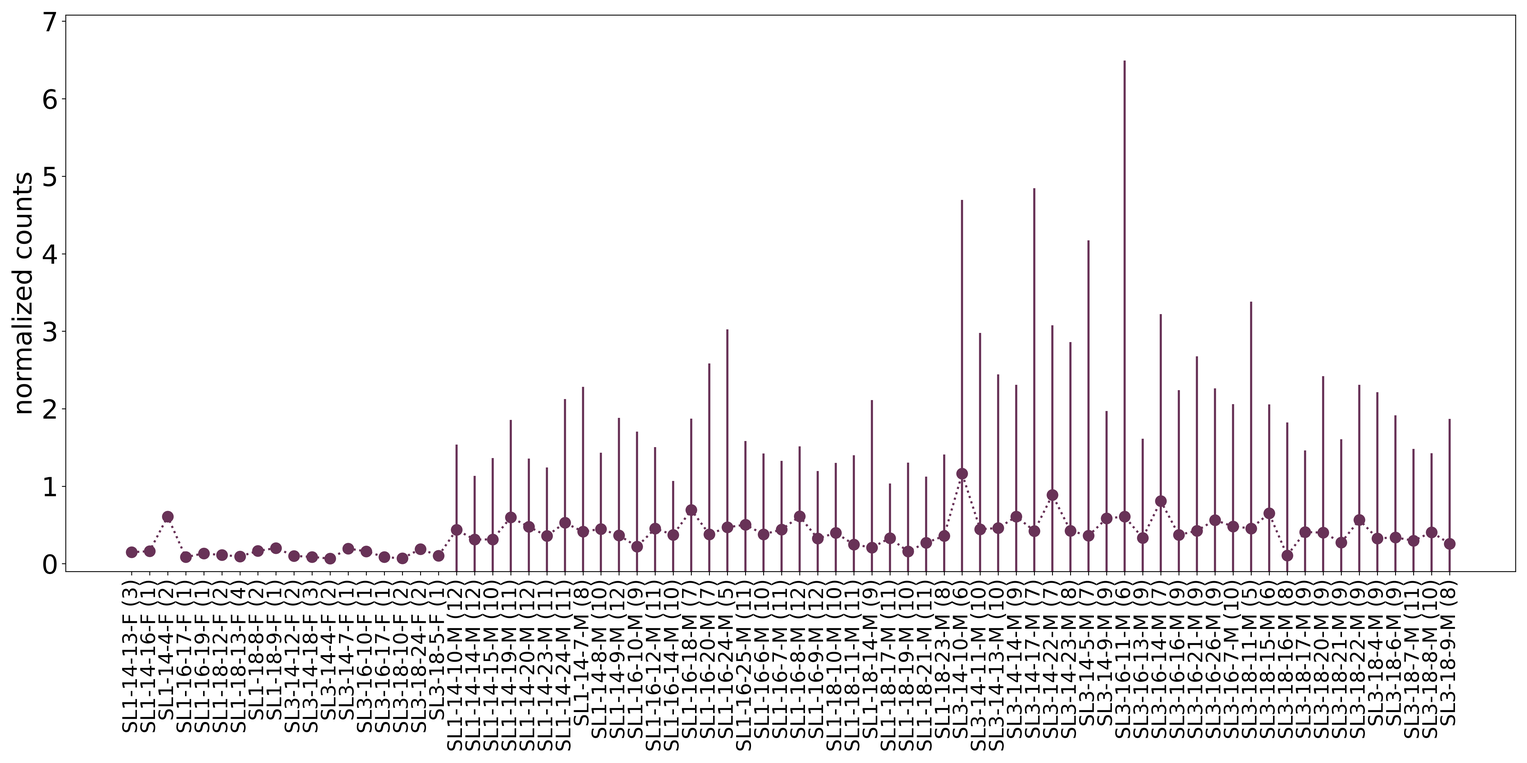
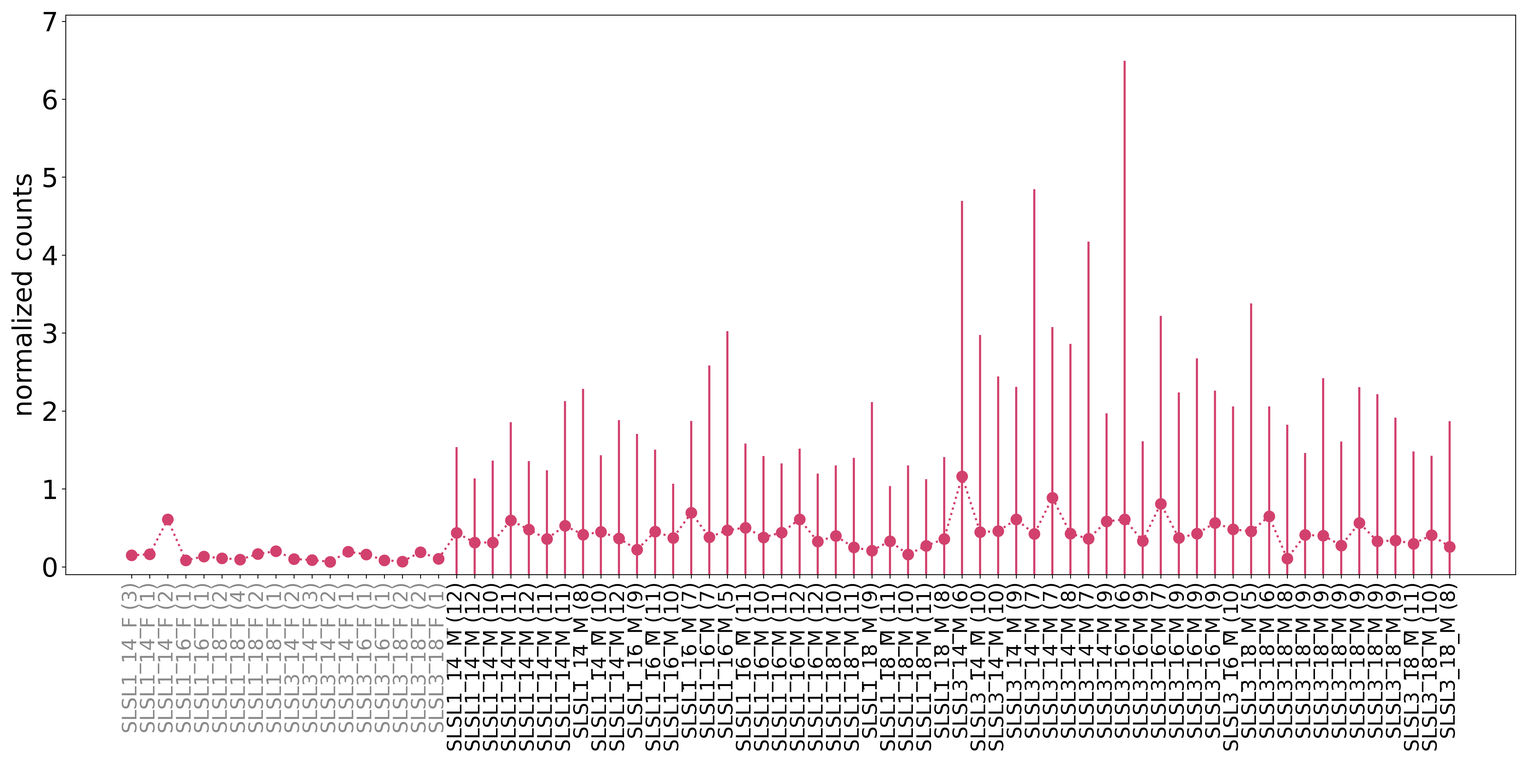
more plotting

Changed region(s): [[0.0312, 0.434, 0.9662, 0.992], [0.0, 0.403, 0.0312, 0.558], [0.0, 0.248, 0.0312, 0.372]]

diff --git a/src/Y_expression_quantification.py b/src/Y_expression_quantification.py
@@ -4,6 +4,164 @@ Plot gene expression and compare Y and A
 
 from basic_plotting import plot_counts
 
+import matplotlib.pyplot as plt
+import pandas as pd
+import numpy as np
+from scipy import stats
+
+
+def plot_counts_sum_sets(counts_table:str, geneIDs_lists_dict:dict, outfile_name:str, y_label="normalized counts", errorbars = False, samples_group_dict = {}):
+    """
+    plot the counts of the geneIDs in all samples
+    except samples where all samples have zero counts
+    gene_IDs_lists_dict is a dict of {'label' : [geneID_list]}, 
+    and the mean counts with error bars of each list are plotted
+    """
+    assert len(geneIDs_lists_dict)>0
+    counts_df = pd.read_csv(counts_table, sep="\t", index_col=0)
+    # counts_present = counts_df.filter(items = geneIDs_list, axis = 1)
+    headers = counts_df.columns.tolist()
+    gene_counts_all_lists = {geneID_label :{geneID : {} for geneID in geneIDs_list} for geneID_label, geneIDs_list in geneIDs_lists_dict.items()}
+    nonexpressed = []
+    for geneID_label, geneIDs_list in geneIDs_lists_dict.items():
+        for geneID in geneIDs_list:
+            try:
+                counts_dict = counts_df.loc[geneID].to_dict()
+            except:
+                nonexpressed.append(geneID)
+                continue
+            gene_counts_all_lists[geneID_label][geneID] = counts_dict
+    print(f"{len(nonexpressed)} out of {len(geneIDs_list)} genes not expressed")
+
+    nonzero_samples = []
+    for sample in headers:
+        sample_count = 0
+        for geneID_label, geneIDs_list in geneIDs_lists_dict.items():
+            for geneID in geneIDs_list:
+                if gene_counts_all_lists[geneID_label][geneID] == {}:
+                    continue
+                try:
+                    sample_count += gene_counts_all_lists[geneID_label][geneID][sample]
+                except: 
+                    # sample keys should exist always even if the count is 0
+                    raise RuntimeError(f"{sample} not found in {geneID_label}:{geneID} \n '{gene_counts_all_lists[geneID_label][geneID]}'")
+        
+        if sample_count > 0:
+            nonzero_samples.append(sample)
+
+    nonzero_samples = list(set(nonzero_samples))
+    print(f"out of {len(headers)} there are {len(nonzero_samples)} samples that have at least one count in one gene!")# \n{nonzero_samples}")
+
+    ### plotting
+    fig, ax = plt.subplots(1,1, figsize=(20, 10)) # for more than three rows
+
+    fs = 25
+    ps = fs*0.8# * 1/len(geneIDs_lists_dict) # point size
+    lw=2
+    linest = ":"
+
+    # sort nonzero samples so that F/M and lines are separated and the plot is easier to interpret 
+    females = sorted([sample for sample in nonzero_samples if "-F_" in sample])
+    males = sorted([sample for sample in nonzero_samples if "-M_" in sample])
+    nonzero_samples_sorted = females + males
+    assert len(nonzero_samples) == len(nonzero_samples_sorted)
+
+    colors_list = [
+"#d2416e",
+"#57b158",
+"#c35dbd",
+"#a6b541",
+"#7965ca",
+"#cd9445",
+"#678ccc",
+"#c85c3f",
+"#4caf9a",
+"#bd6b8f",
+"#717935"]
+    c = 0
+    for list_label, gene_counts in gene_counts_all_lists.items():
+
+        ## make medians and standard errors
+        medians_dict = [0.0 for sample in nonzero_samples_sorted]
+        errors_dict = [0.0 for sample in nonzero_samples_sorted]
+        tick_labels = ["" for sample in nonzero_samples_sorted]
+        tick_pos = [i for i, sample in enumerate(nonzero_samples_sorted)]
+        
+        for i, sample in enumerate(nonzero_samples_sorted):
+            curr_counts = []
+            count_expressed = 0
+            for geneID,sample_counts in gene_counts.items():
+                if sample_counts == {}:
+                    # print(f"{geneID} in {list_label} has empty samples dictionary")
+                    continue
+                if sample_counts[sample] >0:
+                    curr_counts.append(sample_counts[sample])
+                    count_expressed+=1
+            
+            if len(curr_counts)>0:
+                medians_dict[i] = np.median(curr_counts)
+                errors_dict[i] = stats.sem(curr_counts)
+            else:
+                medians_dict[i] = np.nan
+                errors_dict[i] = np.nan
+            if samples_group_dict != {}:
+                try:
+                    sample_ = samples_group_dict[sample]
+                except:
+                    print(f"sample name transformation failed! {sample} could not be found in samples_group_dict {samples_group_dict.keys()}")
+                    sample_ = f"{sample}"
+            if len(geneIDs_lists_dict) ==1:
+                tick_labels[i] = f"{sample_} ({count_expressed})"
+            else:
+                tick_labels[i] = f"{sample_}"
+
+        if errorbars:
+            ax.errorbar(tick_pos, medians_dict, xerr = 0, yerr = errors_dict, color=colors_list[c], linewidth =lw,
+                        marker = ".", markersize=ps, linestyle = linest, label=list_label)
+        else:
+            ax.plot(tick_pos, medians_dict,color=colors_list[c], linewidth =lw, 
+                    marker = ".", markersize=ps, linestyle = linest, label=list_label)
+        c +=1
+
+    if "log" not in y_label:
+        ymin, ymax = ax.get_ylim()
+        ax.set_ylim([-0.1,ymax])
+
+    tick_cols = ["#000000" if "M" in sample else "#8A8A8A" for sample in nonzero_samples_sorted ]
+    ax.set_xticks(tick_pos)
+    ax.set_xticklabels(tick_labels)
+    for tick_label, color in zip(ax.get_xticklabels(), tick_cols):
+        tick_label.set_color(color)
+    
+    ax.tick_params(axis='x', labelsize=fs*0.75,labelrotation=90)#, colors)
+    ax.tick_params(axis='y', labelsize=fs)
+    ax.set_ylabel(f"{y_label}", fontsize = fs)
+    plt.tight_layout()
+    if len(geneIDs_lists_dict)>1:
+        plt.legend(fontsize = fs)
+    plt.savefig(outfile_name, dpi = 300, transparent = False)
+    print(f"plot saved in current working directory as: {outfile_name}")
+
+
+def samples_group():
+    
+    samples = {
+        "SL1_14_M" : ["WJ-3841-1-14-10-M_S377","WJ-3841-1-14-14-M_S399","WJ-3841-1-14-15-M_S400","WJ-3841-1-14-19-M_S425","WJ-3841-1-14-20-M_S426","WJ-3841-1-14-23-M_S427","WJ-3841-1-14-24-M_S428","WJ-3841-1-14-7-M_S374_","WJ-3841-1-14-8-M_S375_","WJ-3841-1-14-9-M_S376_"],
+        "SL1_16_M" : ["WJ-3841-1-16-10-M_S401","WJ-3841-1-16-12-M_S402","WJ-3841-1-16-14-M_S403","WJ-3841-1-16-18-M_S404","WJ-3841-1-16-20-M_S431","WJ-3841-1-16-24-M_S433","WJ-3841-1-16-25-M_S434","WJ-3841-1-16-6-M_S379_","WJ-3841-1-16-7-M_S380_","WJ-3841-1-16-8-M_S381_","WJ-3841-1-16-9-M_S382_"],
+        "SL1_18_M" : ["WJ-3841-1-18-10-M_S383","WJ-3841-1-18-11-M_S406","WJ-3841-1-18-14-M_S407","WJ-3841-1-18-17-M_S408","WJ-3841-1-18-19-M_S437","WJ-3841-1-18-21-M_S438","WJ-3841-1-18-23-M_S439"],
+        "SL3_14_M" : ["WJ-3841-3-14-10-M_S361","WJ-3841-3-14-11-M_S385","WJ-3841-3-14-13-M_S386","WJ-3841-3-14-14-M_S387","WJ-3841-3-14-17-M_S411","WJ-3841-3-14-22-M_S412","WJ-3841-3-14-23-M_S413","WJ-3841-3-14-5-M_S359_","WJ-3841-3-14-9-M_S360_"],
+        "SL3_16_M" : ["WJ-3841-3-16-11-M_S365","WJ-3841-3-16-13-M_S390","WJ-3841-3-16-14-M_S391","WJ-3841-3-16-16-M_S392","WJ-3841-3-16-21-M_S416","WJ-3841-3-16-26-M_S417","WJ-3841-3-16-7-M_S364_"],
+        "SL3_18_M" : ["WJ-3841-3-18-11-M_S395","WJ-3841-3-18-15-M_S396","WJ-3841-3-18-16-M_S397","WJ-3841-3-18-17-M_S398","WJ-3841-3-18-20-M_S421","WJ-3841-3-18-21-M_S422","WJ-3841-3-18-22-M_S423","WJ-3841-3-18-4-M_S367_","WJ-3841-3-18-6-M_S368_","WJ-3841-3-18-7-M_S369_","WJ-3841-3-18-8-M_S370_","WJ-3841-3-18-9-M_S371_"],
+        "SL1_14_F" : ["WJ-3841-1-14-13-F_S429","WJ-3841-1-14-16-F_S430","WJ-3841-1-14-4-F_S378_"],
+        "SL1_16_F" : ["WJ-3841-1-16-17-F_S405","WJ-3841-1-16-19-F_S435","WJ-3841-1-16-22-F_S436"],
+        "SL1_18_F" : ["WJ-3841-1-18-12-F_S440","WJ-3841-1-18-13-F_S420","WJ-3841-1-18-5-F_S384_","WJ-3841-1-18-8-F_S409_","WJ-3841-1-18-9-F_S410_"],
+        "SL3_14_F" : ["WJ-3841-3-14-12-F_S389","WJ-3841-3-14-16-F_S414","WJ-3841-3-14-18-F_S415","WJ-3841-3-14-4-F_S362_","WJ-3841-3-14-6-F_S363_","WJ-3841-3-14-7-F_S388_"],
+        "SL3_16_F" : ["WJ-3841-3-16-10-F_S393","WJ-3841-3-16-12-F_S394","WJ-3841-3-16-15-F_S418","WJ-3841-3-16-17-F_S419","WJ-3841-3-16-18-F_S432","WJ-3841-3-16-9-F_S366_"],
+        "SL3_18_F" : ["WJ-3841-3-18-10-F_S373","WJ-3841-3-18-24-F_S424","WJ-3841-3-18-5-F_S372_"],
+    }
+    return samples
+
+
 def get_counts_paths(username = "milena"):
     counts_paths = {
         "no_log" : f"/Users/{username}/work/PhD_code/PhD_chapter4/data/gene_counts_normalized_nolog.tsv",
@@ -26,7 +184,16 @@ def get_y_information(username = "milena"):
         'scaffold_164' : [],
         "all" : ["gene-402962","gene-402968","gene-402989","gene-424042","gene-424048","gene-424063","gene-424069","gene-424075","gene-424085","gene-424095","gene-371557","gene-371566","gene-371572","gene-371578","gene-371593","gene-371599","gene-371605","gene-371611","gene-371617","gene-371627","gene-371633","gene-371651","gene-371660","gene-371666","gene-371676","gene-371686","gene-371698","gene-371704","gene-371719","gene-371725","gene-371738","gene-371744","gene-371750","gene-371763","gene-371769","gene-371775","gene-371781","gene-371787","gene-371793","gene-371799","gene-371805","yTor-A","yTor-B","gene-371844","yTor-C","gene-371883","gene-371889","gene-371898","gene-371907","gene-371913","gene-371922","gene-371936","gene-371957","gene-371984","gene-372026","gene-372053","gene-372068","gene-372207","gene-372216","gene-372237","gene-372243","gene-372264","gene-372302"],
         }
-    return sex_chromosomes_superscaffolded,y_contigs
+    x_contigs = {
+        'scaffold_10' : ["gene-306335","gene-306353","gene-306359","gene-306484","gene-306496","gene-306523","gene-306550","gene-306577","gene-306589","gene-306648","gene-306675","gene-306713","gene-306736","gene-306977","gene-306995","gene-307001","gene-307013","gene-307098","gene-307178","gene-307190","gene-307264","gene-307421","gene-307427","gene-307433","gene-307442","gene-307448","gene-307460","gene-307469","gene-307478","gene-307484","gene-307496","gene-307508","gene-307537","gene-307555","gene-307679","gene-307691","gene-307700","gene-307736","gene-307746","gene-308117","gene-308126","gene-308132","gene-308150","gene-308177","gene-308198","gene-308216","gene-308231","gene-308282","gene-308300","gene-308321","gene-308424","gene-308454","gene-308487","gene-308508","gene-308549","gene-308564","gene-308597","gene-308603","gene-308697","gene-308708","gene-308738","gene-308795","gene-308810","gene-308822","gene-308840","gene-308850","gene-308862","gene-308874","gene-308880","gene-308887","gene-308897","gene-308921","gene-308930","gene-308945","gene-308981","gene-308990","gene-309049","gene-309070","gene-309076","gene-309252","gene-309273","gene-309288","gene-309315","gene-309327","gene-309339","gene-309387","gene-309399","gene-309408","gene-309414","gene-309420","gene-309471","gene-309516","gene-309522","gene-309556","gene-309583","gene-309642","gene-309648","gene-309660","gene-309708","gene-309714","gene-309744","gene-309768","gene-309828","gene-309843","gene-309870","gene-309876","gene-309885","gene-309915","gene-309966","gene-309993","gene-309999","gene-310012","gene-310065","gene-310115","gene-310121","gene-310152","gene-310158","gene-310176","gene-310194","gene-310230","gene-310251","gene-310287","gene-310338","gene-310383","gene-310422","gene-310482","gene-310604","gene-310639","gene-310648","gene-310660","gene-310714","gene-310729","gene-310850","gene-310868","gene-310889","gene-310951","gene-310975","gene-311116","gene-311131","gene-311152","gene-311193","gene-311211","gene-311273","gene-311303","gene-311343","gene-311367","gene-311396","gene-311426","gene-311444","gene-311450","gene-311462","gene-311477","gene-311521","gene-311551","gene-311563","gene-311581","gene-311593","gene-311620","gene-311647","gene-311674","gene-311725","gene-311734","gene-311749","gene-311758","gene-311767","gene-311796","gene-311808","gene-311817","gene-311904","gene-311910","gene-311934","gene-311952","gene-311970","gene-312110","gene-312140","gene-312229","gene-312264","gene-312270","gene-312288","gene-312294","gene-312314","gene-312326","gene-312362","gene-312409","gene-312416","gene-312440","gene-312452","gene-312479","gene-312544","gene-312583","gene-312604","gene-312715","gene-312748","gene-312890","gene-312908","gene-312923","gene-312938","gene-312968","gene-312983","gene-313040","gene-313064","gene-313139","gene-313154","gene-313196","gene-313303","gene-313324","gene-313330","gene-313455","gene-313478","gene-313493","gene-313589","gene-313618","gene-314377","gene-314386","gene-314478","gene-314490","gene-314511","gene-314576","gene-314588","gene-314599","gene-314611","gene-314715","gene-314807","gene-314825","gene-314834","gene-314864","gene-314873","gene-314900","gene-314921","gene-314945","gene-314951","gene-314980","gene-315004","gene-315034","gene-315114","gene-315138","gene-315170","gene-315215","gene-315254","gene-315287","gene-315379","gene-315455","gene-315467","gene-315482","gene-315515","gene-315539","gene-315551","gene-315569","gene-315578","gene-315593","gene-315603","gene-315630","gene-315640","gene-315808","gene-315814","gene-315826","gene-315967","gene-315991","gene-316014","gene-316126","gene-316255","gene-316282","gene-316300","gene-316413","gene-316434","gene-316459","gene-316474","gene-316544","gene-316589","gene-316686","gene-316713","gene-316731","gene-316755","gene-316779","gene-316827","gene-316836","gene-316880","gene-316886","gene-316951","gene-317002","gene-317103","gene-317127","gene-317184","gene-317205","gene-317217","gene-317235","gene-317256","gene-317283","gene-317289","gene-317336","gene-317372","gene-317405","gene-317564","gene-317573","gene-317951","gene-317969","gene-318475","gene-320235","gene-320352","gene-320375","gene-320404","gene-320470","gene-320479","gene-320494","gene-320541","gene-320568","gene-320594","gene-320647","gene-320770","gene-320782","gene-320803","gene-320812","gene-320821","gene-320833","gene-320854","gene-320878","gene-320978","gene-320990","gene-321011","gene-321017","gene-321078","gene-321107","gene-321177","gene-321219","gene-321346","gene-321367","gene-321450","gene-321510","gene-321546","gene-321587","gene-321629","gene-321638","gene-321653","gene-321691","gene-321706","gene-321733","gene-321745","gene-321775","gene-321790","gene-321814","gene-321841","gene-321850","gene-321859","gene-321868","gene-321913","gene-321925","gene-321991","gene-322044","gene-322092","gene-322136","gene-322154","gene-322160"],
+        'scaffold_14' : ["gene-342132","gene-342138","gene-342144","gene-342150","gene-342165","gene-342177","gene-342183","gene-342189","gene-342198","gene-342204","gene-342210","gene-342216","gene-342222","gene-342228","gene-342240","gene-342246","gene-342252","gene-342261","gene-342270","gene-342279","gene-342285","gene-342291","gene-342297","gene-342303","gene-342309","gene-342315","gene-342321","gene-342330","gene-342339","gene-342348","gene-342354","gene-342360","gene-342366","gene-342372","gene-342378","gene-342384","gene-342390","gene-342399","gene-342408","gene-342417","gene-342423","gene-342429","gene-342438","gene-342447","gene-342456","gene-342465","gene-342471","gene-342477","gene-342483","gene-342489","gene-342495","gene-342501","gene-342510","gene-342519","gene-342525","gene-342531","gene-342540","gene-342546","gene-342552","gene-342561","gene-342567","gene-342573","gene-342579","gene-342594","gene-342639","gene-342660","gene-342667","gene-342682","gene-342688","gene-342694","gene-342718","gene-342950","gene-342962","gene-342971","gene-342977","gene-342983","gene-343084","gene-343093","gene-343099","gene-343117","gene-343123","gene-343165","gene-343194","gene-343203","gene-343215","gene-343242","gene-343369","gene-343376","gene-343453","gene-343500","gene-343547","gene-343580","gene-343648","gene-343660","gene-343684","gene-343696","gene-343708","gene-343717","gene-343726","gene-343747","gene-343838","gene-343924","gene-343933","gene-343951","gene-343971","gene-343989","gene-344019","gene-344052","gene-344096","gene-344111","gene-344117","gene-344147","gene-344156","gene-344189","gene-344201","gene-344210","gene-344537","gene-344549","gene-344555","gene-344564","gene-344945","gene-344978","gene-345019","gene-345031","gene-345061","gene-345067","gene-345073","gene-345094","gene-345100","gene-345115","gene-345129","gene-345135","gene-345162","gene-345180","gene-345195","gene-345222","gene-345246","gene-345258","gene-345273","gene-345288","gene-345306","gene-345372","gene-345392","gene-345419","gene-345515","gene-345524","gene-345545","gene-345557"],
+        'scaffold_23' : ["gene-367203","gene-367224","gene-367230","gene-367236","gene-367251","gene-367267","gene-367277","gene-367351","gene-367360","gene-367366","gene-367381","gene-367393","gene-367399","gene-367408","gene-367414","gene-367420","gene-367427","gene-367433","gene-367439","gene-367448","gene-367454","gene-367460","gene-367469","gene-367478","gene-367484","gene-367490","gene-367502","gene-367517"],
+        'scaffold_31' : ["gene-381161","gene-381182","gene-381188","gene-381194","gene-381200","gene-381209","gene-381218","gene-381237","gene-381246","gene-381259","gene-381280","gene-381292","gene-381304","gene-381310","gene-381322","gene-381331","gene-381337","gene-381349","gene-381355","gene-381361","gene-381370","gene-381376","gene-381394","gene-381436","gene-381442","gene-381451","gene-381491","gene-381512","gene-381547","gene-381574","gene-381597","gene-381624","gene-381651","gene-381698","gene-381757","gene-381766","gene-381772","gene-381799","gene-381805","gene-381988","gene-381997","gene-382021","gene-382055","gene-382088","gene-382095","gene-382158","gene-382176","gene-382294","gene-382300","gene-382309","gene-382321","gene-382327","gene-382333","gene-382345","gene-382351","gene-382357","gene-382363","gene-382369","gene-382375","gene-382384","gene-382396","gene-382402","gene-382408","gene-382414","gene-382432","gene-382438","gene-382444","gene-382455","gene-382464","gene-382473","gene-382479","gene-382485","gene-382491","gene-382500","gene-382506","gene-382512","gene-382518","gene-382524","gene-382530","gene-382536","gene-382547","gene-382559","gene-382571","gene-382577","gene-382583","gene-382589","gene-382601","gene-382607","gene-382613","gene-382619","gene-382625"],
+        'scaffold_34' : ["gene-386046","gene-386052","gene-386058","gene-386118","gene-386151","gene-386178","gene-386234","gene-386270","gene-386276","gene-386303","gene-386309","gene-386321","gene-386336","gene-386375","gene-386470","gene-386717","gene-386821","gene-386830","gene-386836","gene-386842","gene-386848","gene-386933","gene-386954","gene-386960","gene-386969","gene-386975","gene-386981","gene-386987","gene-386993","gene-387002","gene-387081","gene-387251","gene-387272","gene-387443","gene-387497","gene-387749","gene-387992","gene-388013","gene-388076","gene-388126","gene-388138","gene-388159","gene-388171","gene-388183","gene-388204","gene-388216","gene-388234","gene-388249","gene-388261","gene-388296","gene-388322","gene-388340","gene-388416","gene-388422","gene-388434","gene-388479","gene-388488","gene-388556","gene-388577","gene-388598"],
+        'scaffold_83' : ["gene-419623","gene-419632"],
+        'all' : ["gene-306335","gene-306353","gene-306359","gene-306484","gene-306496","gene-306523","gene-306550","gene-306577","gene-306589","gene-306648","gene-306675","gene-306713","gene-306736","gene-306977","gene-306995","gene-307001","gene-307013","gene-307098","gene-307178","gene-307190","gene-307264","gene-307421","gene-307427","gene-307433","gene-307442","gene-307448","gene-307460","gene-307469","gene-307478","gene-307484","gene-307496","gene-307508","gene-307537","gene-307555","gene-307679","gene-307691","gene-307700","gene-307736","gene-307746","gene-308117","gene-308126","gene-308132","gene-308150","gene-308177","gene-308198","gene-308216","gene-308231","gene-308282","gene-308300","gene-308321","gene-308424","gene-308454","gene-308487","gene-308508","gene-308549","gene-308564","gene-308597","gene-308603","gene-308697","gene-308708","gene-308738","gene-308795","gene-308810","gene-308822","gene-308840","gene-308850","gene-308862","gene-308874","gene-308880","gene-308887","gene-308897","gene-308921","gene-308930","gene-308945","gene-308981","gene-308990","gene-309049","gene-309070","gene-309076","gene-309252","gene-309273","gene-309288","gene-309315","gene-309327","gene-309339","gene-309387","gene-309399","gene-309408","gene-309414","gene-309420","gene-309471","gene-309516","gene-309522","gene-309556","gene-309583","gene-309642","gene-309648","gene-309660","gene-309708","gene-309714","gene-309744","gene-309768","gene-309828","gene-309843","gene-309870","gene-309876","gene-309885","gene-309915","gene-309966","gene-309993","gene-309999","gene-310012","gene-310065","gene-310115","gene-310121","gene-310152","gene-310158","gene-310176","gene-310194","gene-310230","gene-310251","gene-310287","gene-310338","gene-310383","gene-310422","gene-310482","gene-310604","gene-310639","gene-310648","gene-310660","gene-310714","gene-310729","gene-310850","gene-310868","gene-310889","gene-310951","gene-310975","gene-311116","gene-311131","gene-311152","gene-311193","gene-311211","gene-311273","gene-311303","gene-311343","gene-311367","gene-311396","gene-311426","gene-311444","gene-311450","gene-311462","gene-311477","gene-311521","gene-311551","gene-311563","gene-311581","gene-311593","gene-311620","gene-311647","gene-311674","gene-311725","gene-311734","gene-311749","gene-311758","gene-311767","gene-311796","gene-311808","gene-311817","gene-311904","gene-311910","gene-311934","gene-311952","gene-311970","gene-312110","gene-312140","gene-312229","gene-312264","gene-312270","gene-312288","gene-312294","gene-312314","gene-312326","gene-312362","gene-312409","gene-312416","gene-312440","gene-312452","gene-312479","gene-312544","gene-312583","gene-312604","gene-312715","gene-312748","gene-312890","gene-312908","gene-312923","gene-312938","gene-312968","gene-312983","gene-313040","gene-313064","gene-313139","gene-313154","gene-313196","gene-313303","gene-313324","gene-313330","gene-313455","gene-313478","gene-313493","gene-313589","gene-313618","gene-314377","gene-314386","gene-314478","gene-314490","gene-314511","gene-314576","gene-314588","gene-314599","gene-314611","gene-314715","gene-314807","gene-314825","gene-314834","gene-314864","gene-314873","gene-314900","gene-314921","gene-314945","gene-314951","gene-314980","gene-315004","gene-315034","gene-315114","gene-315138","gene-315170","gene-315215","gene-315254","gene-315287","gene-315379","gene-315455","gene-315467","gene-315482","gene-315515","gene-315539","gene-315551","gene-315569","gene-315578","gene-315593","gene-315603","gene-315630","gene-315640","gene-315808","gene-315814","gene-315826","gene-315967","gene-315991","gene-316014","gene-316126","gene-316255","gene-316282","gene-316300","gene-316413","gene-316434","gene-316459","gene-316474","gene-316544","gene-316589","gene-316686","gene-316713","gene-316731","gene-316755","gene-316779","gene-316827","gene-316836","gene-316880","gene-316886","gene-316951","gene-317002","gene-317103","gene-317127","gene-317184","gene-317205","gene-317217","gene-317235","gene-317256","gene-317283","gene-317289","gene-317336","gene-317372","gene-317405","gene-317564","gene-317573","gene-317951","gene-317969","gene-318475","gene-320235","gene-320352","gene-320375","gene-320404","gene-320470","gene-320479","gene-320494","gene-320541","gene-320568","gene-320594","gene-320647","gene-320770","gene-320782","gene-320803","gene-320812","gene-320821","gene-320833","gene-320854","gene-320878","gene-320978","gene-320990","gene-321011","gene-321017","gene-321078","gene-321107","gene-321177","gene-321219","gene-321346","gene-321367","gene-321450","gene-321510","gene-321546","gene-321587","gene-321629","gene-321638","gene-321653","gene-321691","gene-321706","gene-321733","gene-321745","gene-321775","gene-321790","gene-321814","gene-321841","gene-321850","gene-321859","gene-321868","gene-321913","gene-321925","gene-321991","gene-322044","gene-322092","gene-322136","gene-322154","gene-322160","gene-342132","gene-342138","gene-342144","gene-342150","gene-342165","gene-342177","gene-342183","gene-342189","gene-342198","gene-342204","gene-342210","gene-342216","gene-342222","gene-342228","gene-342240","gene-342246","gene-342252","gene-342261","gene-342270","gene-342279","gene-342285","gene-342291","gene-342297","gene-342303","gene-342309","gene-342315","gene-342321","gene-342330","gene-342339","gene-342348","gene-342354","gene-342360","gene-342366","gene-342372","gene-342378","gene-342384","gene-342390","gene-342399","gene-342408","gene-342417","gene-342423","gene-342429","gene-342438","gene-342447","gene-342456","gene-342465","gene-342471","gene-342477","gene-342483","gene-342489","gene-342495","gene-342501","gene-342510","gene-342519","gene-342525","gene-342531","gene-342540","gene-342546","gene-342552","gene-342561","gene-342567","gene-342573","gene-342579","gene-342594","gene-342639","gene-342660","gene-342667","gene-342682","gene-342688","gene-342694","gene-342718","gene-342950","gene-342962","gene-342971","gene-342977","gene-342983","gene-343084","gene-343093","gene-343099","gene-343117","gene-343123","gene-343165","gene-343194","gene-343203","gene-343215","gene-343242","gene-343369","gene-343376","gene-343453","gene-343500","gene-343547","gene-343580","gene-343648","gene-343660","gene-343684","gene-343696","gene-343708","gene-343717","gene-343726","gene-343747","gene-343838","gene-343924","gene-343933","gene-343951","gene-343971","gene-343989","gene-344019","gene-344052","gene-344096","gene-344111","gene-344117","gene-344147","gene-344156","gene-344189","gene-344201","gene-344210","gene-344537","gene-344549","gene-344555","gene-344564","gene-344945","gene-344978","gene-345019","gene-345031","gene-345061","gene-345067","gene-345073","gene-345094","gene-345100","gene-345115","gene-345129","gene-345135","gene-345162","gene-345180","gene-345195","gene-345222","gene-345246","gene-345258","gene-345273","gene-345288","gene-345306","gene-345372","gene-345392","gene-345419","gene-345515","gene-345524","gene-345545","gene-345557","gene-367203","gene-367224","gene-367230","gene-367236","gene-367251","gene-367267","gene-367277","gene-367351","gene-367360","gene-367366","gene-367381","gene-367393","gene-367399","gene-367408","gene-367414","gene-367420","gene-367427","gene-367433","gene-367439","gene-367448","gene-367454","gene-367460","gene-367469","gene-367478","gene-367484","gene-367490","gene-367502","gene-367517","gene-381161","gene-381182","gene-381188","gene-381194","gene-381200","gene-381209","gene-381218","gene-381237","gene-381246","gene-381259","gene-381280","gene-381292","gene-381304","gene-381310","gene-381322","gene-381331","gene-381337","gene-381349","gene-381355","gene-381361","gene-381370","gene-381376","gene-381394","gene-381436","gene-381442","gene-381451","gene-381491","gene-381512","gene-381547","gene-381574","gene-381597","gene-381624","gene-381651","gene-381698","gene-381757","gene-381766","gene-381772","gene-381799","gene-381805","gene-381988","gene-381997","gene-382021","gene-382055","gene-382088","gene-382095","gene-382158","gene-382176","gene-382294","gene-382300","gene-382309","gene-382321","gene-382327","gene-382333","gene-382345","gene-382351","gene-382357","gene-382363","gene-382369","gene-382375","gene-382384","gene-382396","gene-382402","gene-382408","gene-382414","gene-382432","gene-382438","gene-382444","gene-382455","gene-382464","gene-382473","gene-382479","gene-382485","gene-382491","gene-382500","gene-382506","gene-382512","gene-382518","gene-382524","gene-382530","gene-382536","gene-382547","gene-382559","gene-382571","gene-382577","gene-382583","gene-382589","gene-382601","gene-382607","gene-382613","gene-382619","gene-382625","gene-386046","gene-386052","gene-386058","gene-386118","gene-386151","gene-386178","gene-386234","gene-386270","gene-386276","gene-386303","gene-386309","gene-386321","gene-386336","gene-386375","gene-386470","gene-386717","gene-386821","gene-386830","gene-386836","gene-386842","gene-386848","gene-386933","gene-386954","gene-386960","gene-386969","gene-386975","gene-386981","gene-386987","gene-386993","gene-387002","gene-387081","gene-387251","gene-387272","gene-387443","gene-387497","gene-387749","gene-387992","gene-388013","gene-388076","gene-388126","gene-388138","gene-388159","gene-388171","gene-388183","gene-388204","gene-388216","gene-388234","gene-388249","gene-388261","gene-388296","gene-388322","gene-388340","gene-388416","gene-388422","gene-388434","gene-388479","gene-388488","gene-388556","gene-388577","gene-388598","gene-419623","gene-419632"]
+    }
+    return sex_chromosomes_superscaffolded,y_contigs,x_contigs
 
 
 
@@ -34,8 +201,12 @@ if __name__ == "__main__":
     
     username = "milena"
     count_files = get_counts_paths(username=username)
-    ex_chromosomes,y_contigs = get_y_information(username=username)
+    ex_chromosomes,y_contigs,x_contigs = get_y_information(username=username)
     out_path = f"/Users/{username}/work/PhD_code/PhD_chapter4/data/yTor_analysis"
+    samples_group_dict_orig = samples_group()
+    samples_group_dict = {item: key for key, values in samples_group_dict_orig.items() for item in values}
 
-    plot_counts(counts_table=count_files["no_log"], geneIDs_list = y_contigs["all"], 
-                outfile_name = f"{out_path}/y_genes_mean_expression.png", y_label= "normalized counts" ,mean_per_sample=True)
+    plot_counts_sum_sets(counts_table=count_files["no_log"], geneIDs_lists_dict = {"Y" : y_contigs["all"]}, 
+                outfile_name = f"{out_path}/y_genes_mean_expression.png", y_label= "normalized counts", errorbars=True, samples_group_dict = samples_group_dict)
+    plot_counts_sum_sets(counts_table=count_files["no_log"], geneIDs_lists_dict = {"Y" : y_contigs["all"], "X" : x_contigs["all"]}, 
+                outfile_name = f"{out_path}/y_x_genes_mean_expression.png", y_label= "normalized counts", errorbars=False, samples_group_dict = samples_group_dict)
